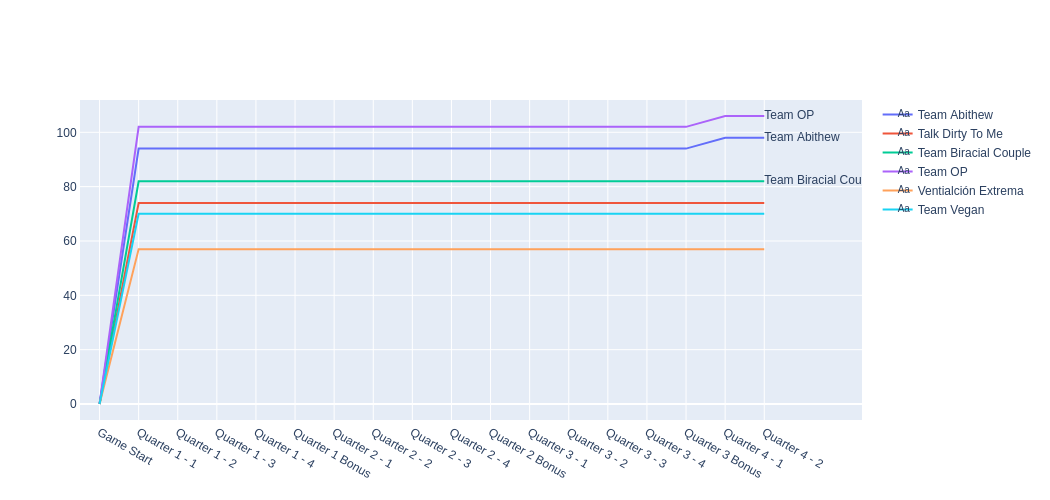
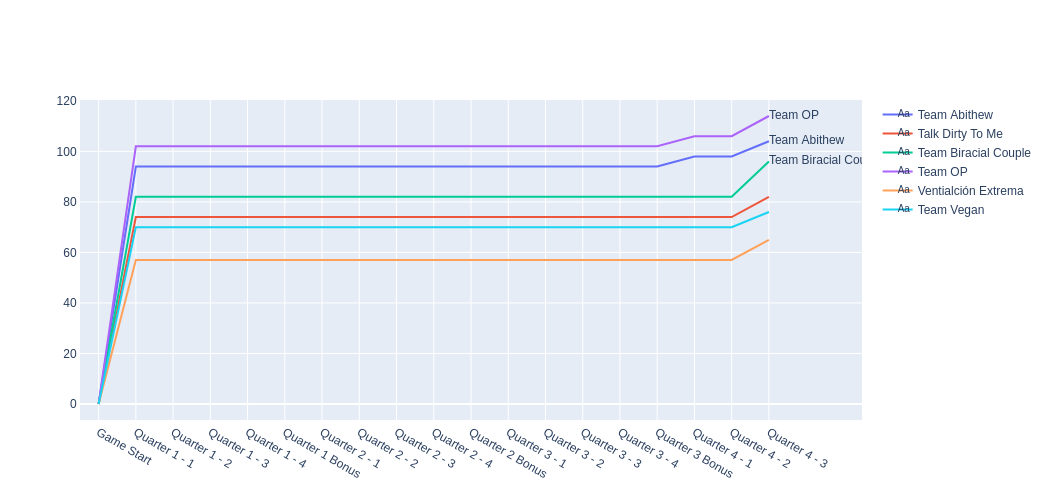
Live Edits

diff --git a/Trivia/Live_Tracker.html b/Trivia/Live_Tracker.html
@@ -13,7 +13,7 @@
         document.getElementById("title").innerHTML = "Trivia Live Scoring - " + m + "/" + d + "/" + y;
         </script>
         <div><img src = "img/fig1.png"></div>
-        <div>1 person (17%) got question 4-2 correct.</div>
+        <div>6 people (100%) got question 4-3 correct.</div>
         
         </body>
         </html>
